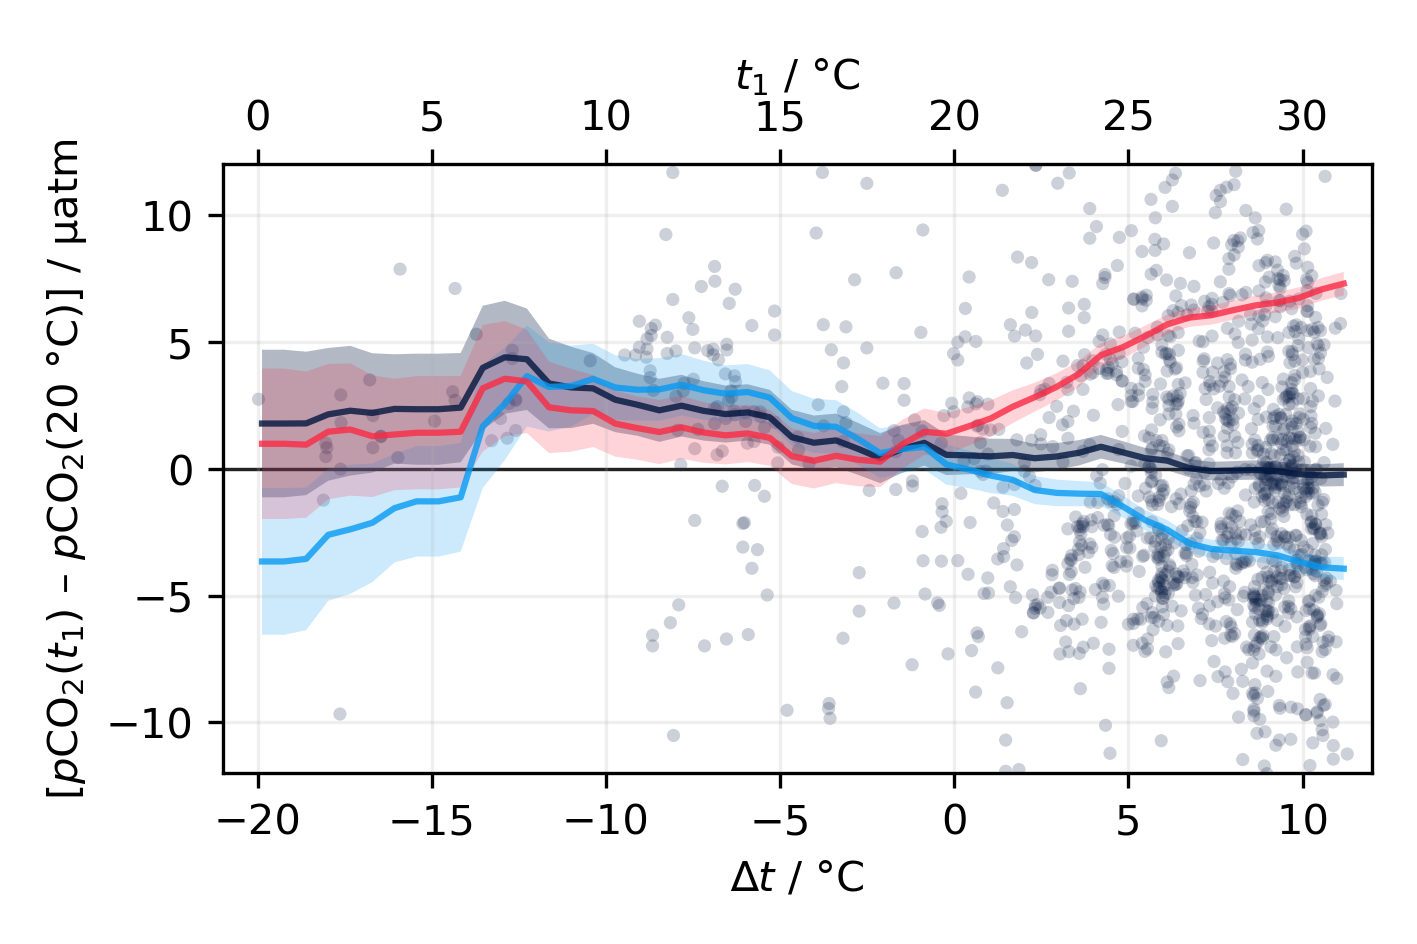
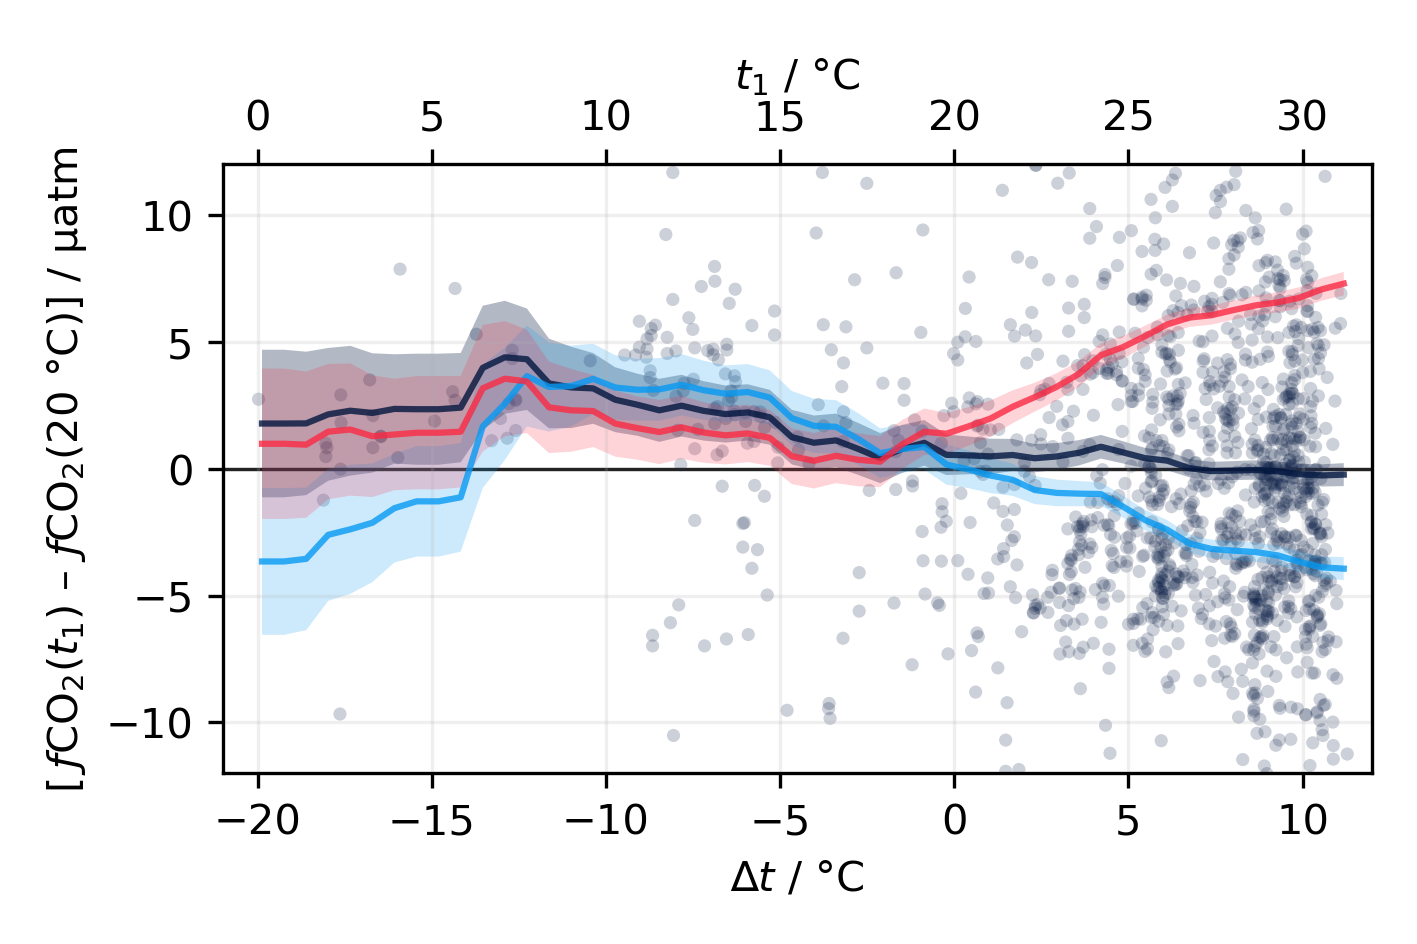
First final figure complete

Changed region(s): [[0.0311, 0.1536, 0.0621, 0.6144], [0.0311, 0.6451, 0.0621, 0.8602]]

diff --git a/figure1.py b/figure1.py
@@ -12,19 +12,22 @@ import takahashi93 as t93
 import pwtools
 
 # Do own "linear regression" (forced to T93 slope) and quadratic fit
-lr = linregress(t93.temperature, np.log(t93.pCO2))  # slope comes out as 42.2 not 42.3!
+fCO2 = t93.get_fCO2(10, 1)
+lr_pCO2 = linregress(
+    t93.temperature, np.log(t93.pCO2)
+)  # slope comes out as 42.2 not 42.3!
+lr_fCO2 = linregress(t93.temperature, np.log(fCO2))  # slope comes out as 42.2 not 42.3!
 lr_slope = 42.3e-3
-lr_intercept = np.mean(np.log(t93.pCO2) - t93.temperature * lr_slope)
-pf = np.polyfit(t93.temperature, np.log(t93.pCO2), 2)
+lr_intercept = np.mean(np.log(fCO2) - t93.temperature * lr_slope)
 
 # %%
 opt_total_borate = 1
 alkalinity_10 = t93.get_alkalinity(10, opt_total_borate)[0]
 alkalinity_08 = t93.get_alkalinity(8, opt_total_borate)[0]
 
-# Calculate pCO2 variation with temperature with different approaches
-# v_temperature = np.linspace(-1.8, 30, num=100)
+# Calculate fCO2 variation with temperature with different approaches
 v_temperature = np.linspace(-1.8, 35.83, num=100)
+
 # - with PyCO2SYS (autograd approach)
 v_results_10 = pyco2.sys(
     par1=alkalinity_10,
@@ -35,8 +38,8 @@ v_results_10 = pyco2.sys(
     opt_k_carbonic=10,
     **t93.tak93,
 )
-v_pCO2_10 = v_results_10["pCO2"]
-v_lnpCO2_PyCO2SYS_10 = np.log(v_pCO2_10)
+v_fCO2_10 = v_results_10["fCO2"]
+v_lnfCO2_PyCO2SYS_10 = np.log(v_fCO2_10)
 v_results_08 = pyco2.sys(
     par1=alkalinity_08,
     par1_type=1,
@@ -46,17 +49,19 @@ v_results_08 = pyco2.sys(
     opt_k_carbonic=8,
     **t93.tak93,
 )
-v_pCO2_08 = v_results_08["pCO2"]
-v_lnpCO2_PyCO2SYS_08 = np.log(v_pCO2_08)
+v_fCO2_08 = v_results_08["fCO2"]
+v_lnfCO2_PyCO2SYS_08 = np.log(v_fCO2_08)
+
 # - with the linear temperature sensitivity of T93
-zero_lnpCO2 = np.log(t93.pCO2) - 0.0423 * t93.temperature
-v_lnpCO2_linear = np.mean(zero_lnpCO2) + v_temperature * 0.0423
+zero_lnfCO2 = np.log(fCO2) - 0.0423 * t93.temperature
+v_lnfCO2_linear = np.mean(zero_lnfCO2) + v_temperature * 0.0423
+
 # - with the polynomial temperature sensitivity of T93
-zero_lnpCO2_poly = (
-    np.log(t93.pCO2) - 0.0433 * t93.temperature + 0.5 * 8.7e-5 * t93.temperature**2
+zero_lnfCO2_poly = (
+    np.log(fCO2) - 0.0433 * t93.temperature + 0.5 * 8.7e-5 * t93.temperature**2
 )
-v_lnpCO2_poly = (
-    np.mean(zero_lnpCO2_poly)
+v_lnfCO2_poly = (
+    np.mean(zero_lnfCO2_poly)
     + v_temperature * 0.0433
     - 0.5 * 8.7e-5 * v_temperature**2
 )
@@ -96,16 +101,14 @@ ax = axs[0]
 ax.text(0, 1.05, "(a)", transform=ax.transAxes)
 ax.errorbar(
     t93.temperature,
-    # np.log(pCO2),
-    t93.pCO2 - np.exp(t93.temperature * lr_slope + lr_intercept),
+    fCO2 - np.exp(t93.temperature * lr_slope + lr_intercept),
     np.sqrt(8),
     c="xkcd:dark",
     ls="none",
 )
 ax.scatter(
     t93.temperature,
-    # np.log(pCO2),
-    t93.pCO2 - np.exp(t93.temperature * lr_slope + lr_intercept),
+    fCO2 - np.exp(t93.temperature * lr_slope + lr_intercept),
     c="xkcd:dark",
     label="Ta93 measured",
     s=50,
@@ -116,16 +119,12 @@ ax.scatter(
 ax.axhline(0, **style_linear)
 ax.plot(
     v_temperature,
-    np.exp(v_lnpCO2_poly) - f_linear,
+    np.exp(v_lnfCO2_poly) - f_linear,
     **style_poly,
 )
 ax.plot(
     v_temperature,
-    np.exp(
-        pwtools.get_lnfCO2_vh(
-            [pwtools.bh_best_pCO2, pwtools.ch_best_pCO2], v_temperature
-        )
-    )
+    np.exp(pwtools.get_lnfCO2_vh([pwtools.bh_best, pwtools.ch_best], v_temperature))
     - f_linear,
     **style_vh,
 )
@@ -133,7 +132,7 @@ ax.plot(
     v_temperature,
     np.exp(
         pwtools.get_lnfCO2_vh(
-            [pwtools.bh_theory, pwtools.ch_theory_best_pCO2], v_temperature
+            [pwtools.bh_theory, pwtools.ch_theory_best], v_temperature
         )
     )
     - f_linear,
@@ -141,16 +140,20 @@ ax.plot(
 )
 ax.plot(
     v_temperature,
-    np.exp(v_lnpCO2_PyCO2SYS_10) - f_linear,
+    np.exp(v_lnfCO2_PyCO2SYS_10) - f_linear,
     **style_pyco2_10,
 )
 ax.plot(
     v_temperature,
-    np.exp(v_lnpCO2_PyCO2SYS_08) - f_linear,
+    np.exp(v_lnfCO2_PyCO2SYS_08) - f_linear,
     **style_pyco2_08,
 )
 ax.set_xlabel("Temperature / °C")
-ax.set_ylabel("[$p$CO$_2$ $-$ $p$CO$_2$($υ_l$)] / µatm")
+ax.set_ylabel(
+    "[{sp}{f}CO$_2$ $-$ {f}CO$_2$($υ_l$)] / µatm".format(
+        sp=pwtools.thinspace, f=pwtools.f
+    )
+)
 ax.set_xlim((np.min(v_temperature), np.max(v_temperature)))
 ax.set_ylim((-43, 23))
 
@@ -162,7 +165,7 @@ ax.plot(
     1e3 * pwtools.get_eta_h(pwtools.bh_theory, v_temperature),
     **style_vht,
 )
-ax.plot(v_temperature, 1e3 * v_results_08["dlnpCO2_dT"], **style_pyco2_08)
+ax.plot(v_temperature, 1e3 * v_results_08["dlnfCO2_dT"], **style_pyco2_08)
 ax.plot(
     v_temperature,
     1e3 * (0.0433 - 8.7e-5 * v_temperature),
@@ -170,10 +173,10 @@ ax.plot(
 )
 ax.plot(
     v_temperature,
-    1e3 * pwtools.get_eta_h(pwtools.bh_best_pCO2, v_temperature),
+    1e3 * pwtools.get_eta_h(pwtools.bh_best, v_temperature),
     **style_vh,
 )
-ax.plot(v_temperature, 1e3 * v_results_10["dlnpCO2_dT"], **style_pyco2_10)
+ax.plot(v_temperature, 1e3 * v_results_10["dlnfCO2_dT"], **style_pyco2_10)
 ax.set_xlabel("Temperature / °C")
 ax.set_ylabel("$υ$ / k°C$^{–1}$")
 ax.set_xlim((np.min(v_temperature), np.max(v_temperature)))
@@ -184,4 +187,4 @@ ax.legend(
 )
 
 fig.tight_layout()
-fig.savefig("figures/f01/f01c_final.png")
+fig.savefig("figures_final/figure1.png")

diff --git a/fitting.py b/fitting.py
@@ -3,34 +3,43 @@ import numpy as np
 from matplotlib import pyplot as plt
 import pwtools
 
-pf_linear = np.polyfit(t93.temperature, np.log(t93.pCO2), 1)
+
+fCO2 = t93.get_fCO2(10, 1)
+
+pf_linear = np.polyfit(t93.temperature, np.log(fCO2), 1)
 rmsd_linear = np.sqrt(
-    np.mean((np.exp(np.polyval(pf_linear, t93.temperature)) - t93.pCO2) ** 2)
-)
-pf_quadratic = np.polyfit(t93.temperature, np.log(t93.pCO2), 2)
-rmsd_quadratic = np.sqrt(
-    np.mean((np.exp(np.polyval(pf_quadratic, t93.temperature)) - t93.pCO2) ** 2)
+    np.mean((np.exp(np.polyval(pf_linear, t93.temperature)) - fCO2) ** 2)
 )
 
-opt_result = pwtools.fit_pCO2_vh(t93.temperature, np.log(t93.pCO2))
+pf_quadratic = np.polyfit(t93.temperature, np.log(fCO2), 2)
+rmsd_quadratic = np.sqrt(
+    np.mean((np.exp(np.polyval(pf_quadratic, t93.temperature)) - fCO2) ** 2)
+)
+
+fit_vh = pwtools.fit_fCO2_vh(t93.temperature, np.log(fCO2))
+fit_vh_curve = pwtools.fit_vh_curve(t93.temperature, fCO2)
+fit_vh_pCO2 = pwtools.fit_fCO2_vh(t93.temperature, np.log(t93.pCO2))
 rmsd_vh = np.sqrt(
     np.mean(
-        (np.exp(pwtools.get_lnpCO2_vh(opt_result["x"], t93.temperature)) - t93.pCO2)
-        ** 2
+        (np.exp(pwtools.get_lnfCO2_vh(fit_vh["x"], t93.temperature)) - t93.pCO2) ** 2
     )
 )
+bh_std = np.sqrt(fit_vh_curve[1][0][0])
 
-optr_vht = pwtools.fit_pCO2_vht(t93.temperature, np.log(t93.pCO2))
+fit_vht = pwtools.fit_fCO2_vht(t93.temperature, np.log(fCO2))
+fit_vht_pCO2 = pwtools.fit_fCO2_vht(t93.temperature, np.log(t93.pCO2))
 
 
+# Just a 1:1 plot
 ft = np.linspace(-1.8, 35.83)
 fig, ax = plt.subplots(dpi=300)
 ax.scatter(t93.temperature, np.log(t93.pCO2))
 ax.plot(ft, np.polyval(pf_linear, ft))
 ax.plot(ft, np.polyval(pf_quadratic, ft))
-ax.plot(ft, pwtools.get_lnpCO2_vh(opt_result["x"], ft))
+ax.plot(ft, pwtools.get_lnfCO2_vh(fit_vh["x"], ft))
 
-# %%
+# Check the fits look okay and to make sure that we haven't rounded off too many decimal
+# places (compare the 'exact' with 'manual' lines - should be indistinguishable)
 fig, ax = plt.subplots(dpi=300)
 flin = np.exp(np.polyval(pf_linear, ft))
 ax.scatter(t93.temperature, t93.pCO2 - np.exp(np.polyval(pf_linear, t93.temperature)))
@@ -41,9 +50,12 @@ ax.errorbar(
     ls="none",
 )
 ax.plot(ft, np.exp(np.polyval(pf_quadratic, ft)) - flin, label="quadratic")
-ax.plot(ft, np.exp(pwtools.get_lnpCO2_vh(opt_result["x"], ft)) - flin, label="vH")
-ax.plot(ft, np.exp(pwtools.get_lnpCO2_vht(optr_vht["x"], ft)) - flin, label="theory")
-ax.plot(ft, np.exp(pwtools.get_lnpCO2_vht(16.713, ft)) - flin, label="manual")
+ax.plot(ft, np.exp(pwtools.get_lnfCO2_vh(fit_vh["x"], ft)) - flin, label="vH - exact")
+ax.plot(
+    ft, np.exp(pwtools.get_lnfCO2_vh([28995, 18.242], ft)) - flin, label="vH - manual"
+)
+ax.plot(
+    ft, np.exp(pwtools.get_lnfCO2_vht(fit_vht["x"], ft)) - flin, label="theory - exact"
+)
+ax.plot(ft, np.exp(pwtools.get_lnfCO2_vht(16.709, ft)) - flin, label="theory - manual")
 ax.legend()
-
-# ax.set_ylim([-20, 10])

diff --git a/pwtools.py b/pwtools.py
@@ -1,5 +1,5 @@
 from autograd import grad, jacobian
-from scipy.optimize import least_squares
+from scipy.optimize import least_squares, curve_fit
 import numpy as np
 
 Rgas = 8.31446261815324
@@ -25,10 +25,16 @@ okc_codes = {
     18: "Pa18",
 }
 
-bh_best = 28963  # J/mol
-ch_best = 18.2321
+bh_best = 28995  # J/mol
+ch_best = 18.2420
+bh_best_pCO2 = 28963  # J/mol
+ch_best_pCO2 = 18.2321
 bh_theory = 25288  # J/mol
-ch_theory_best = 16.713
+ch_theory_best = 16.709
+ch_theory_best_pCO2 = 16.713
+
+thinspace = " "
+f = "$ƒ$" + thinspace
 
 
 def get_eta_l(bl):
@@ -129,27 +135,37 @@ def get_grad_H_h(bh, t0, t1):
     return grad(get_H_h)(bh, t0, t1)
 
 
-def get_lnpCO2_vh(coeffs, temperature):
+def get_lnfCO2_vh(coeffs, temperature):
     b, c = coeffs
     return c - b / (Rgas * (temperature + tzero))
 
 
-def _lsqfun_get_pCO2_vh(coeffs, temperature, ln_pCO2):
-    return np.exp(get_lnpCO2_vh(coeffs, temperature)) - np.exp(ln_pCO2)
-    # return get_lnpCO2_vh(coeffs, temperature) - ln_pCO2
+def _lsqfun_get_lnfCO2_vh(coeffs, temperature, ln_fCO2):
+    return np.exp(get_lnfCO2_vh(coeffs, temperature)) - np.exp(ln_fCO2)
+    # return get_lnfCO2_vh(coeffs, temperature) - ln_fCO2
 
 
-def fit_pCO2_vh(temperature, ln_pCO2):
-    return least_squares(_lsqfun_get_pCO2_vh, [25288, 20], args=(temperature, ln_pCO2))
+def fit_fCO2_vh(temperature, ln_fCO2):
+    return least_squares(
+        _lsqfun_get_lnfCO2_vh, [25288, 20], args=(temperature, ln_fCO2)
+    )
 
 
-def get_lnpCO2_vht(c, temperature):
+def _curfun_fit_vh(temperature, bh, ch):
+    return np.exp(get_lnfCO2_vh((bh, ch), temperature))
+
+
+def fit_vh_curve(temperature, fCO2):
+    return curve_fit(_curfun_fit_vh, temperature, fCO2, p0=(25288, 20))
+
+
+def get_lnfCO2_vht(c, temperature):
     return c - bh_theory / (Rgas * (temperature + tzero))
 
 
-def _lsqfun_get_pCO2_vht(c, temperature, ln_pCO2):
-    return np.exp(get_lnpCO2_vht(c, temperature)) - np.exp(ln_pCO2)
+def _lsqfun_get_fCO2_vht(c, temperature, ln_fCO2):
+    return np.exp(get_lnfCO2_vht(c, temperature)) - np.exp(ln_fCO2)
 
 
-def fit_pCO2_vht(temperature, ln_pCO2):
-    return least_squares(_lsqfun_get_pCO2_vht, [20], args=(temperature, ln_pCO2))
+def fit_fCO2_vht(temperature, ln_fCO2):
+    return least_squares(_lsqfun_get_fCO2_vht, [20], args=(temperature, ln_fCO2))

diff --git a/takahashi93.py b/takahashi93.py
@@ -60,3 +60,18 @@ def get_alkalinity(opt_k_carbonic, opt_total_borate):
 
     opt_result = least_squares(_lsqfun_pCO2_from_alkalinity, [2300], args=(pCO2,))
     return opt_result["x"][0], np.sqrt(np.mean(opt_result.fun**2))
+
+
+def get_fCO2(opt_k_carbonic, opt_total_borate):
+    """Convert pCO2 to fCO2 for the given `opt_k_carbonic` and `opt_total_borate`."""
+    fCO2 = pyco2.sys(
+        par1=dic,
+        par1_type=2,
+        par2=pCO2,
+        par2_type=4,
+        temperature=temperature,
+        opt_k_carbonic=opt_k_carbonic,
+        opt_total_borate=opt_total_borate,
+        **tak93,
+    )["fCO2"]
+    return fCO2

diff --git a/f14_wanninkhof.py b/f14_wanninkhof.py
@@ -270,6 +270,6 @@ for t in np.arange(0, 35, 5):
     ax.text(t - 20, 13, "{}".format(t), ha="center", va="bottom")
 ax.text(0.5, 1.11, "$t_1$ / °C", ha="center", va="bottom", transform=ax.transAxes)
 ax.grid(alpha=0.2)
-ax.set_ylabel("[$p$CO$_2$($t_1$) – $p$CO$_2$(20 °C)] / µatm")
+ax.set_ylabel("[" + pwtools.thinspace + "$ƒ$CO$_2$($t_1$) – $ƒ$CO$_2$(20 °C)] / µatm")
 fig.tight_layout()
 fig.savefig("figures/f14_wanninkhof.png")
